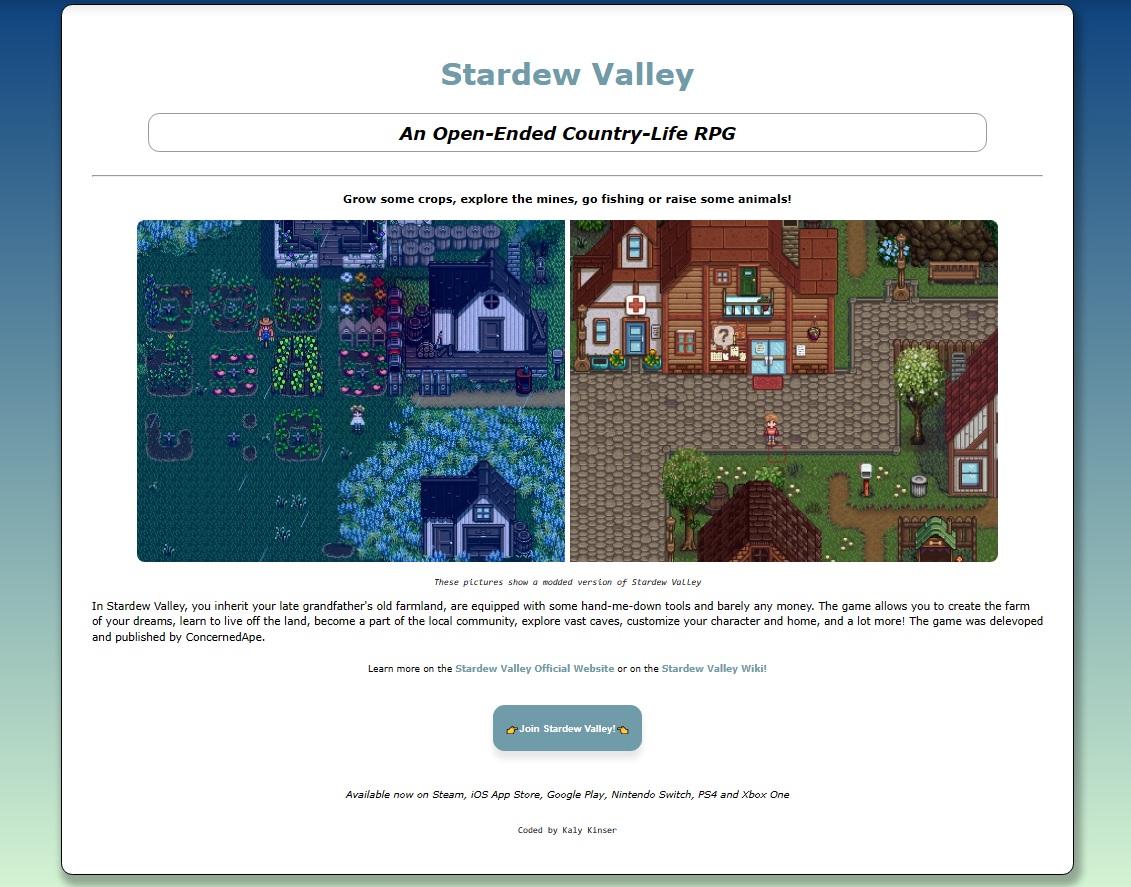
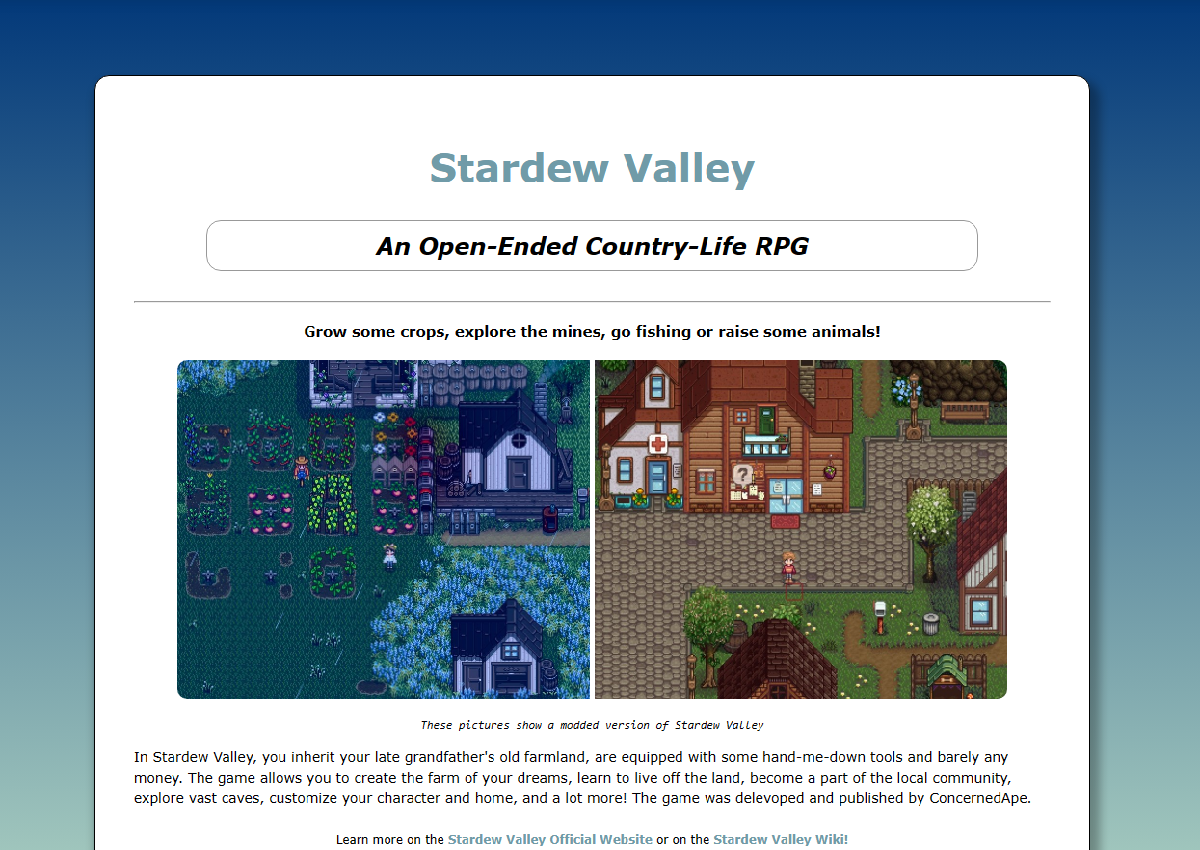
Adding CSS and changing the image dimensions

diff --git a/contact.html b/contact.html
@@ -38,5 +38,11 @@
           </div>
         </div>
     </nav>
-    insert ways to contact
+
+    <div class="d-flex justify-content-center">
+        <div class="p-4"><i class="fa-brands fa-github"></i><a class="links" href="https://github.com/KayeBK"> GitHub</a></div>
+        <div class="p-4"><i class="fa-solid fa-envelope"></i><a class="links" href="/contact.html"> Email</a></div>
+        <div class="p-4"><i class="fa-brands fa-linkedin"></i><a class="links" href="https://www.linkedin.com/in/kalykinser/"> LinkedIn</a></div>
+    </div>
+    
 </body>

diff --git a/projects.html b/projects.html
@@ -38,6 +38,12 @@
           </div>
         </div>
     </nav>
+    <div class="project-hero">
+        <h1>Works by Kaye Kinser</h1>
+        <a href="/contact.html" class="btn btn-branding btn-sm p-3 mb-5" role="button">
+            Contact Me
+        </a>
+    </div>
 
     <div class="container project-list">
         <div class="row">

diff --git a/styles/style.css b/styles/style.css
@@ -25,7 +25,14 @@ h1 {
     color: white;
 }
 
-.hero h1, .about-hero h1 {
+.project-hero {
+    text-align: center;
+    background-color:#0b0b0b;
+    color: white;
+    padding: 50px 50px 25px 50px;
+}
+
+.hero h1, .about-hero h1, .project-hero h1{
    padding: 45px;
 }
 
